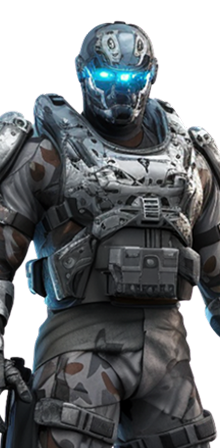
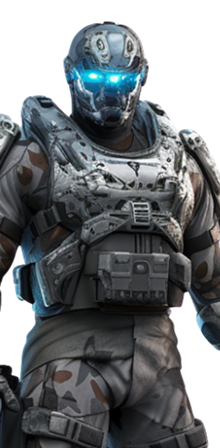
feat: add new image component background

diff --git a/src/game/scenes/PlayerSelection.js b/src/game/scenes/PlayerSelection.js
@@ -50,10 +50,9 @@ export class PlayerSelection extends Scene {
     }
 
     createImageComponent(cardLayout) {
-        const background = this.add.rectangle(
+        const background = this.add.image(
             cardLayout.x, COMPONENTS.image.y,
-            CARD.width, COMPONENTS.image.height,
-            COLOR.primary
+            'image-component-background'
         )
         .setOrigin(0);
         
@@ -195,6 +194,8 @@ export class PlayerSelection extends Scene {
     }
 
     preload () {
+        this.load.image('image-component-background', 'assets/images/selector_cards/image-component-background.png');
+
         this.load.image('human-image', 'assets/images/selector_cards/human.png');
         this.load.image('bot-image', 'assets/images/selector_cards/bot.png');
         this.load.image('none-image', 'assets/images/selector_cards/human-transparent.png');
